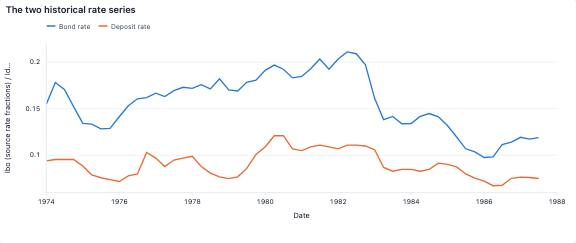
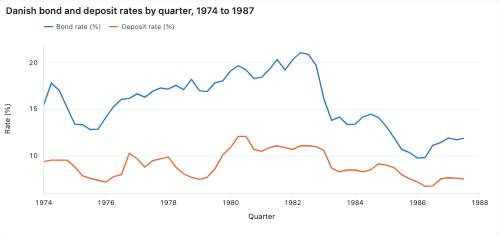
feat(daily): rewrite the Danish money and rate-spread notebooks
Index real money against real income and express the rates as percent
through calc steps in the family query.

diff --git a/apps/demo/public/daily-viz/projects/danish/logs-and-indices.eda.md b/apps/demo/public/daily-viz/projects/danish/logs-and-indices.eda.md
@@ -1,68 +1,52 @@
-# Logs, levels, and rebased money in a historical Danish series
+# Danish real money grew 47% in 13 years; real income, 16%
 
-**Does the relationship between real money and real income persist after taking quarterly log changes?** Each row is one Danish calendar quarter.
+**Do real money and real income move together?** Each row is one Danish quarter from 1974 to 1987, with the logs of real money and real income from a classic cointegration dataset, rebased here so that both start at 100 in the first quarter of 1974. In levels the two series look married. Quarter by quarter, they barely speak.
 
 ```eda
 eda query=r
-period:cat=r.period label="Period"
+period:cat=r.period label="Quarter"
 lrm:num=r.lrm label="Log real money"
 lry:num=r.lry label="Log real income"
-quarter:num=r.quarter label="Quarter"
-date:date=r.date label="Date"
-money_index:num=r.money_index label="Money index (first quarter = 100)"
-income_index:num=r.income_index label="Income index (first quarter = 100)"
-dmoney:num=r.dmoney label="Money growth (log change)"
-dincome:num=r.dincome label="Income growth (log change)"
+date:date=r.date label="Quarter"
+money_index:num=r.money_index label="Real money (1974 Q1 = 100)"
+income_index:num=r.income_index label="Real income (1974 Q1 = 100)"
+dmoney:num=r.dmoney label="Real money, quarterly log change"
+dincome:num=r.dincome label="Real income, quarterly log change"
 ```
 
-## 1. Rebase both series to the first quarter
+## The two indices parted ways in 1984
 
-Exponentiating each log difference from its initial value yields a comparable starting index. It does not put the two original series into the same currency quantity.
+For ten years the lines cross and recross within a few points of each other. From 1984 real money climbs away: by the third quarter of 1987 the real money index stood at 146.63, while the real income index stood at 115.86. Real money peaked at 155.72 in the second quarter of 1986.
 
 ```eda
-line @nb-danish-logs-and-indices-chart-1 x=date y=money_index,income_index title="Rebase both series to the first quarter" x.title="Date" y.title="Money index (first quarter = 100) / Income index (first quarter = 100)"
+line @nb-danish-logs-and-indices-chart-1 x=date y=money_index,income_index title="Real money and real income, indexed to 1974 Q1" x.title="Quarter" y.title="Index (1974 Q1 = 100)" {
+  rule x=1984-01-01 "Money pulls ahead"
+}
 ```
 
-## 2. The relationship in logged levels
+## In levels, the two are tightly correlated
 
-Trending variables can share a strong levels association. Each point is a quarter in one connected historical sequence.
+Each point is one quarter, placed by its log real income and log real money. The cloud leans up and to the right: logged real money and logged real income had correlation 0.868. Much of that is the shared climb after 1984, when both rose together.
 
 ```eda
-scatter @nb-danish-logs-and-indices-chart-2 x=lry y=lrm title="The relationship in logged levels" x.title="Log real income" y.title="Log real money"
+scatter @nb-danish-logs-and-indices-chart-2 x=lry y=lrm regression=linear title="Log real money against log real income, Danish quarters 1974 to 1987" x.title="Log real income" y.title="Log real money"
 ```
 
-**Finding.** Logged real money and logged real income had correlation 0.868.
+## Quarter to quarter, the link is faint
 
-## 3. The relationship in quarterly log changes
-
-Differencing removes the initial level and leaves the first quarter without a valid comparison. The result still needs time-series caution.
+Replace each quarter's level with its change from the quarter before. The cloud rounds out: the quarterly log changes had correlation 0.490. In 55.6% of quarters, real money and real income moved in the same direction, barely better than a coin toss.
 
 ```eda
-scatter @nb-danish-logs-and-indices-chart-3 x=dincome y=dmoney title="The relationship in quarterly log changes" x.title="Income growth (log change)" y.title="Money growth (log change)"
-```
-
-## 4. Quarterly log changes in real money
-
-A distribution view exposes asymmetry and extreme changes. It discards persistence and should be read alongside the time series.
-
-```eda
-hist @nb-danish-logs-and-indices-chart-4 dmoney bins=16 title="Quarterly log changes in real money" x.title="Money growth (log change)" y.title="Rows"
-```
-
-**Finding.** Their valid quarterly log changes had correlation 0.490.
-
-## 5. The rows behind the charts
-
-Sort a column or select rows to check any value above. Selections in a notebook stay with their own chart.
-
-```eda
-table @nb-danish-logs-and-indices-records period,lrm,lry,money_index,income_index,dmoney,dincome title="Records behind this comparison"
+scatter @nb-danish-logs-and-indices-chart-3 x=dincome y=dmoney regression=linear title="Quarterly log changes in real money and real income" x.title="Real income, quarterly log change" y.title="Real money, quarterly log change" {
+  rule x=0 "No change in income"
+  rule y=0 "No change in money"
+}
 ```
 
 ## Takeaway
 
-A close relationship in trending levels can look different after differencing. Present the transformation as a different analytical view rather than claiming it reveals the one correct relationship.
+Danish real money and real income rose together because both rose, and real money rose three times as far. The levels correlation of 0.87 is mostly that shared trend; the quarterly correlation of 0.49 is what the two series have to say to each other.
 
 ## Limits
 
-These are source-defined logged economic series from a historical Danish model dataset. First differences do not remove all confounding or serial dependence. Indices describe changes, not absolute currency levels.
+Fifty-five quarters from one country, taken from a textbook dataset and already logged at the source. Indices describe growth from 1974, not amounts of money. A first difference removes the trend but not the dependence between neighboring quarters.

diff --git a/apps/demo/public/daily-viz/projects/danish/rate-spread.eda.md b/apps/demo/public/daily-viz/projects/danish/rate-spread.eda.md
@@ -1,67 +1,59 @@
-# Two interest-rate lines become one historical spread
+# Danish bonds paid 2.5 to 10.5 points more than deposits
 
-**How wide was the gap between Danish bond and deposit rates?** Each row is one Danish calendar quarter.
+**How much more did a Danish bond pay than a bank deposit?** Each row is one quarter from 1974 to 1987, with the bond yield and the bank deposit rate. The gap never closed: bonds paid more in every one of the 55 quarters, by 6.59 points on average, and the widest gaps came before 1981.
 
 ```eda
 eda query=r
-period:cat=r.period label="Period"
-ibo:num=r.ibo label="Bond rate"
-ide:num=r.ide label="Deposit rate"
-date:date=r.date label="Date"
-spread:num=r.spread label="Bond − deposit rate"
+period:cat=r.period label="Quarter"
+ibo_pct:num=ibo_pct label="Bond rate (%)"
+ide_pct:num=ide_pct label="Deposit rate (%)"
+spread_pct:num=spread_pct label="Bond minus deposit rate (points)"
+date:date=r.date label="Quarter"
 era:cat=r.era label="Era"
 ```
 
-## 1. The two historical rate series
+## Bonds peaked at 21%; deposits at 12%
 
-Use one shared fraction scale. Do not format these source fractions as percent values without explicitly multiplying by a hundred.
+Both rates climbed through the 1970s and fell after 1982, but the bond line stays well above the deposit line throughout. The bond rate peaked at 21.08% in the second quarter of 1982. The deposit rate peaked at 12.10% in the second quarter of 1980. Over the whole span the mean bond rate was 15.64% and the mean deposit rate was 9.04%.
 
 ```eda
-line @nb-danish-rate-spread-chart-1 x=date y=ibo,ide title="The two historical rate series" x.title="Date" y.title="Ibo (source rate fractions) / Ide (source rate fractions)"
+line @nb-danish-rate-spread-chart-1 x=date y=ibo_pct,ide_pct title="Danish bond and deposit rates by quarter, 1974 to 1987" x.title="Quarter" y.title="Rate (%)"
 ```
 
-## 2. The spread relative to equality
+## The gap peaked at 10.5 points in 1978
 
-The zero reference follows from the definition of the subtraction. A positive spread says which source rate is larger, not which asset is preferable.
+Subtract one line from the other and the gap becomes one distance from zero. The spread peaked at 10.50 points in the last quarter of 1978 and fell to 2.53 points in the first quarter of 1986. It never touched zero.
 
 ```eda
-line @nb-danish-rate-spread-chart-2 x=date y=spread title="The spread relative to equality" x.title="Date" y.title="Bond − deposit rate" {
-  rule y=0 "Equal source rates"
+line @nb-danish-rate-spread-chart-2 x=date y=spread_pct title="Bond rate minus deposit rate, by quarter" x.title="Quarter" y.title="Bond minus deposit rate (points)" {
+  rule y=0 "Equal rates"
+  callout "1978 Q4: 10.5 points" pick=max
+  callout "1986 Q1: 2.5 points" pick=min
 }
 ```
 
-**Finding.** The smallest recorded bond-minus-deposit spread was 0.0253 in source rate fractions.
+## After 1981 the typical gap narrowed by 2.5 points
 
-## 3. Spread distributions across two historical spans
-
-The broad split is descriptive. It is not evidence that an unmodeled regime change occurred at the boundary.
+Split the quarters at 1981 and compare the boxes. The median spread from 1974 to 1980 was 7.51 points; from 1981 to 1987 it was 4.96 points. The later box also reaches lower: every spread under four points comes after 1983.
 
 ```eda
-boxplot @nb-danish-rate-spread-chart-3 spread color=era title="Spread distributions across two historical spans" y.title="Bond − deposit rate"
+boxplot @nb-danish-rate-spread-chart-3 spread_pct color=era title="Bond minus deposit rate, by era" y.title="Bond minus deposit rate (points)"
 ```
 
-## 4. The level of the bond rate and the spread
+## Deposits followed bonds, but not point for point
 
-The bond rate appears on both sides of this comparison because it is part of the spread. That arithmetic coupling limits interpretation of a correlation.
-
-```eda
-scatter @nb-danish-rate-spread-chart-4 x=ibo y=spread title="The level of the bond rate and the spread" x.title="Bond rate" y.title="Bond − deposit rate"
-```
-
-**Finding.** The largest recorded spread was 0.1050 in source rate fractions.
-
-## 5. The rows behind the charts
-
-Sort a column or select rows to check any value above. Selections in a notebook stay with their own chart.
+Each quarter placed by its two rates. The deposit rate rose and fell with the bond rate (correlation 0.803), but the cloud is flatter than the diagonal: a quarter with bonds near 20% had deposits near 11%, not 20%.
 
 ```eda
-table @nb-danish-rate-spread-records period,ibo,ide,spread,era title="Records behind this comparison"
+scatter @nb-danish-rate-spread-chart-4 x=ibo_pct y=ide_pct regression=linear title="Deposit rate against bond rate, Danish quarters 1974 to 1987" x.title="Bond rate (%)" y.title="Deposit rate (%)" {
+  callout "1980 Q2: deposits 12.1%" pick=max
+}
 ```
 
 ## Takeaway
 
-Subtracting the two source fractions makes their difference directly readable. Retain the original lines so a wider spread can be distinguished from movement in both rates together.
+A Danish saver who held bonds instead of deposits earned 6.6 points a year more on average, and over 10 points more at the 1978 peak. The gap narrowed after 1981 as both rates fell, but it never closed.
 
 ## Limits
 
-The displayed rates are historical source fractions, not current quoted products. A spread is not a total investment return, and the observations support no recommendation about present borrowing or investing.
+Fifty-five quarters from one country, with the bond yield and deposit rate as the source recorded them. A yield gap is not a return: bonds carry price risk that deposits do not, and nothing here says which was the better investment.
